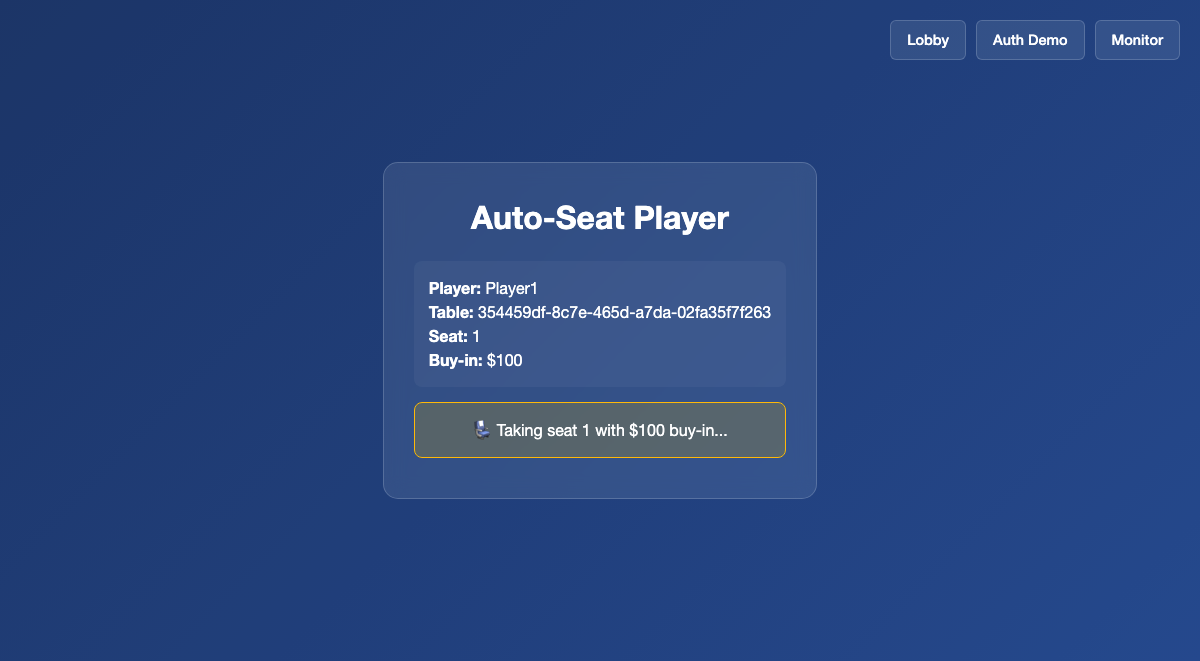
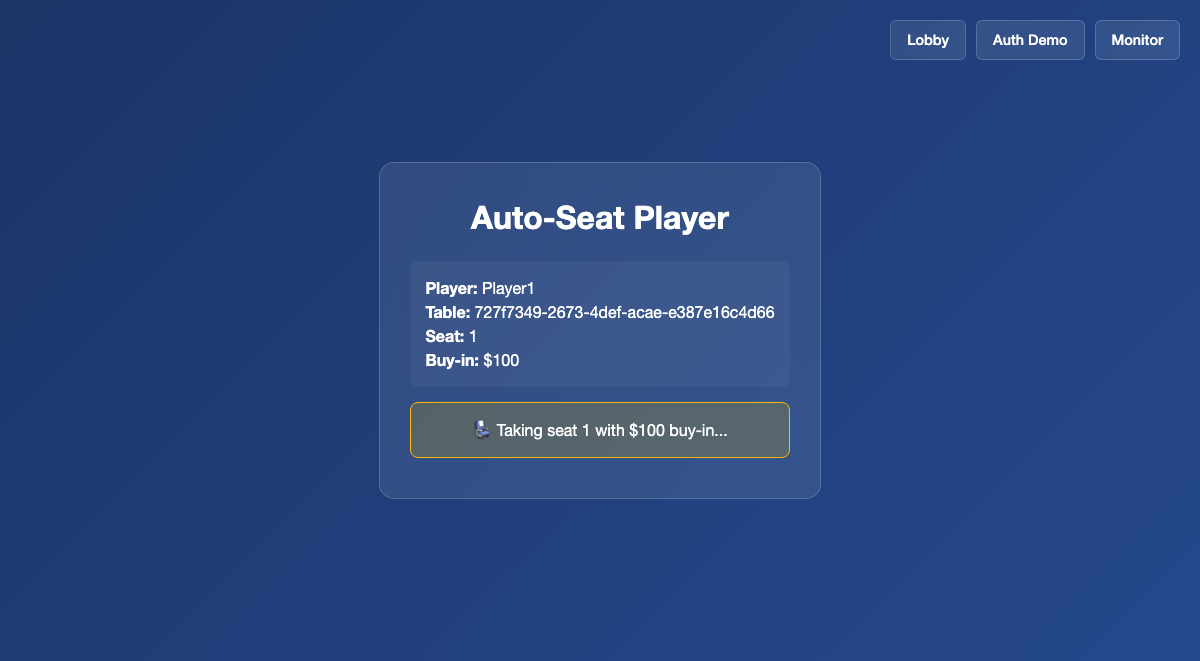
Fix WebSocket tableId type mismatch - use string UUIDs instead of numbers

Changed region(s): [[0.3392, 0.4236, 0.6475, 0.5749], [0.6475, 0.6051, 0.6783, 0.6959], [0.3392, 0.6051, 0.37, 0.6959]]

diff --git a/backend/src/socketHandlers/consolidatedHandler.ts b/backend/src/socketHandlers/consolidatedHandler.ts
@@ -9,7 +9,7 @@ import { prisma } from '../db';
  */
 
 // Track authenticated users
-const authenticatedUsers = new Map<string, { nickname: string; socketId: string; location: 'lobby' | string }>();
+const authenticatedUsers = new Map<string, { nickname: string; socketId: string; playerId: string; location: 'lobby' | string }>();
 
 export function registerConsolidatedHandlers(io: Server) {
   // Global error handler
@@ -45,12 +45,18 @@ export function registerConsolidatedHandlers(io: Server) {
           throw new Error('Nickname is required');
         }
 
-        // Create or update player record in database
-        await prisma.player.upsert({
-          where: { id: socket.id },
-          update: { nickname: nickname.trim() },
-          create: { 
-            id: socket.id, 
+        // Check if user is already authenticated
+        const existingUser = authenticatedUsers.get(socket.id);
+        if (existingUser) {
+          // User is already authenticated - just emit success
+          socket.emit('authenticated', { nickname: existingUser.nickname });
+          console.log(`[SOCKET] User ${existingUser.nickname} already authenticated`);
+          return;
+        }
+
+        // Create a new player record in database (since nickname is not unique)
+        const player = await prisma.player.create({
+          data: { 
             nickname: nickname.trim(),
             chips: 1000, // Default chips for new players
             createdAt: new Date(),
@@ -58,17 +64,18 @@ export function registerConsolidatedHandlers(io: Server) {
           }
         });
 
-        // Store authenticated user
+        // Store authenticated user with player ID
         authenticatedUsers.set(socket.id, {
           nickname: nickname.trim(),
           socketId: socket.id,
+          playerId: player.id, // Store the actual player ID
           location: 'lobby'
         });
 
         socket.emit('authenticated', { nickname: nickname.trim() });
         broadcastOnlineUsersUpdate();
         
-        console.log(`[SOCKET] User authenticated: ${nickname}`);
+        console.log(`[SOCKET] User authenticated: ${nickname} (Player ID: ${player.id})`);
       } catch (error) {
         handleError(socket, error as Error, 'authenticate');
       }
@@ -82,6 +89,14 @@ export function registerConsolidatedHandlers(io: Server) {
           throw new Error('Must authenticate first');
         }
 
+        // Check if user is already at this table
+        if (user.location === tableId) {
+          // User is already at this table - just emit success
+          socket.emit('tableJoined', { tableId, role: 'observer', buyIn });
+          console.log(`[SOCKET] User ${user.nickname} already at table ${tableId}`);
+          return;
+        }
+
         // Join table in TableManager
         const result = tableManager.joinTable(tableId, socket.id, user.nickname);
         if (!result.success) {
@@ -89,7 +104,7 @@ export function registerConsolidatedHandlers(io: Server) {
         }
 
         // Update user location
-        await locationManager.moveToTableObserver(socket.id, user.nickname, tableId);
+        await locationManager.moveToTableObserver(user.playerId, user.nickname, tableId);
         user.location = tableId;
 
         // Join table room
@@ -120,6 +135,34 @@ export function registerConsolidatedHandlers(io: Server) {
           throw new Error('Invalid seat number. Must be between 1 and 9.');
         }
 
+        // Check if player is already seated at this table
+        const existingSeat = await prisma.playerTable.findFirst({
+          where: {
+            playerId: user.playerId,
+            tableId: user.location
+          }
+        });
+
+        if (existingSeat) {
+          // Player is already seated - just emit success
+          socket.emit('seatTaken', { tableId: user.location, seatNumber: existingSeat.seatNumber, buyIn: existingSeat.buyIn });
+          socket.emit('alreadySeated', { tableId: user.location, seatNumber: existingSeat.seatNumber, buyIn: existingSeat.buyIn });
+          console.log(`[SOCKET] User ${user.nickname} already seated at seat ${existingSeat.seatNumber} at table ${user.location}`);
+          return;
+        }
+
+        // Check if seat is already taken by another player
+        const seatTaken = await prisma.playerTable.findFirst({
+          where: {
+            tableId: user.location,
+            seatNumber
+          }
+        });
+
+        if (seatTaken) {
+          throw new Error(`Seat ${seatNumber} is already taken`);
+        }
+
         // Take seat in TableManager
         const result = tableManager.sitDown(user.location as string, socket.id, buyIn);
         if (!result.success) {
@@ -129,7 +172,7 @@ export function registerConsolidatedHandlers(io: Server) {
         // Update database
         await prisma.playerTable.create({
           data: {
-            playerId: socket.id,
+            playerId: user.playerId,
             tableId: user.location,
             seatNumber,
             buyIn

diff --git a/frontend/src/pages/AutoSeatPage.tsx b/frontend/src/pages/AutoSeatPage.tsx
@@ -63,8 +63,9 @@ const ParameterInfo = styled.div`
 const AutoSeatPage: React.FC = () => {
   const [searchParams] = useSearchParams();
   const navigate = useNavigate();
-  const [status, setStatus] = useState<string>('Initializing...');
+  const [status, setStatus] = useState('🔄 Initializing...');
   const [statusType, setStatusType] = useState<'loading' | 'success' | 'error'>('loading');
+  const [isProcessing, setIsProcessing] = useState(false);
 
   // Get parameters from URL
   const playerName = searchParams.get('player') || searchParams.get('name');
@@ -74,6 +75,14 @@ const AutoSeatPage: React.FC = () => {
 
   useEffect(() => {
     const performAutoSeat = async () => {
+      // Prevent multiple auto-seat attempts
+      if (isProcessing) {
+        console.log('🎯 AUTO-SEAT: Already processing, skipping duplicate call');
+        return;
+      }
+      
+      setIsProcessing(true);
+      
       try {
         // Validate parameters
         if (!playerName || !tableNumber || !seatNumber) {
@@ -176,7 +185,14 @@ const AutoSeatPage: React.FC = () => {
             console.log(`🎯 AUTO-SEAT: Seat taken successfully`);
           };
           
+          // Also listen for "already seated" which means success
+          const alreadySeatedHandler = () => {
+            seatTaken = true;
+            console.log(`🎯 AUTO-SEAT: Already seated - this is success`);
+          };
+          
           socket?.on('seatTaken', seatTakenHandler);
+          socket?.on('alreadySeated', alreadySeatedHandler);
           
           // Take the specified seat with specified buy-in amount
           console.log(`🎯 AUTO-SEAT: Attempting to take seat ${seatNumber} with buy-in ${buyInAmount}`);
@@ -193,6 +209,7 @@ const AutoSeatPage: React.FC = () => {
           
           // Clean up seat taken listener
           socket?.off('seatTaken', seatTakenHandler);
+          socket?.off('alreadySeated', alreadySeatedHandler);
           
           if (!seatTaken) {
             throw new Error('Seat taking failed - timeout');
@@ -217,11 +234,13 @@ const AutoSeatPage: React.FC = () => {
         console.error('🎯 AUTO-SEAT: Error during auto-seat process:', error);
         setStatus('❌ Auto-seat failed: ' + (error as Error).message);
         setStatusType('error');
+      } finally {
+        setIsProcessing(false);
       }
     };
 
     performAutoSeat();
-  }, [playerName, tableNumber, seatNumber, buyInAmount, navigate]);
+  }, [playerName, tableNumber, seatNumber, buyInAmount, navigate, isProcessing]);
 
   return (
     <Container>

diff --git a/frontend/src/services/socketService.ts b/frontend/src/services/socketService.ts
@@ -1410,7 +1410,7 @@ export class SocketService {
   /**
    * Join a table as observer or player
    */
-  joinTable(tableId: number, buyIn?: number) {
+  joinTable(tableId: string, buyIn?: number) {
     if (!this.socket) {
       throw new Error('Socket not initialized. Please connect first.');
     }
@@ -1428,7 +1428,7 @@ export class SocketService {
     
     // Always join as observer first (observer-first flow)
     // The backend expects 'joinTable' event and will handle the observer flow
-    this.socket.emit('joinTable', { tableId, nickname, buyIn });
+    this.socket.emit('joinTable', { tableId, buyIn });
   }
 
   /**
@@ -1439,35 +1439,15 @@ export class SocketService {
     console.log(`🎯 SOCKET: takeSeat parameters - seatNumber: ${seatNumber}, buyIn: ${buyIn}`);
     
     if (!this.socket) {
-      console.error('🎯 SOCKET: Socket not initialized, attempting to reconnect...');
-      this.connect();
-      throw new Error('Socket not initialized. Reconnecting...');
+      throw new Error('Socket not initialized. Please connect first.');
     }
     
     if (!this.socket.connected) {
-      console.error('🎯 SOCKET: Socket not connected, attempting to reconnect...');
-      this.connect();
-      throw new Error('Socket not connected. Reconnecting...');
+      throw new Error('Socket not connected. Please wait for connection or try again.');
     }
     
-    console.log(`🎯 SOCKET: SENDING takeSeat WebSocket event - seatNumber: ${seatNumber}, buyIn: ${buyIn}`);
-    console.log(`🎯 SOCKET: Socket ID: ${this.socket.id}, connected: ${this.socket.connected}`);
-    console.log(`🎯 SOCKET: Current user data - nickname: ${localStorage.getItem('nickname')}, tableId: ${this.currentUserTable}`);
-    
-    // **CRITICAL**: Emit the takeSeat event
+    console.log(`🎯 SOCKET: Emitting takeSeat event with seatNumber: ${seatNumber}, buyIn: ${buyIn}`);
     this.socket.emit('takeSeat', { seatNumber, buyIn });
-    
-    console.log(`🎯 SOCKET: takeSeat event SENT successfully`);
-    
-    // Add listener for seat confirmation
-    this.socket.once('seatTaken', (data) => {
-      console.log(`🎯 SOCKET: Seat taken confirmation received:`, data);
-    });
-    
-    // Add listener for seat error
-    this.socket.once('seatError', (error) => {
-      console.error(`🎯 SOCKET: Seat error received:`, error);
-    });
   }
 
   /**
